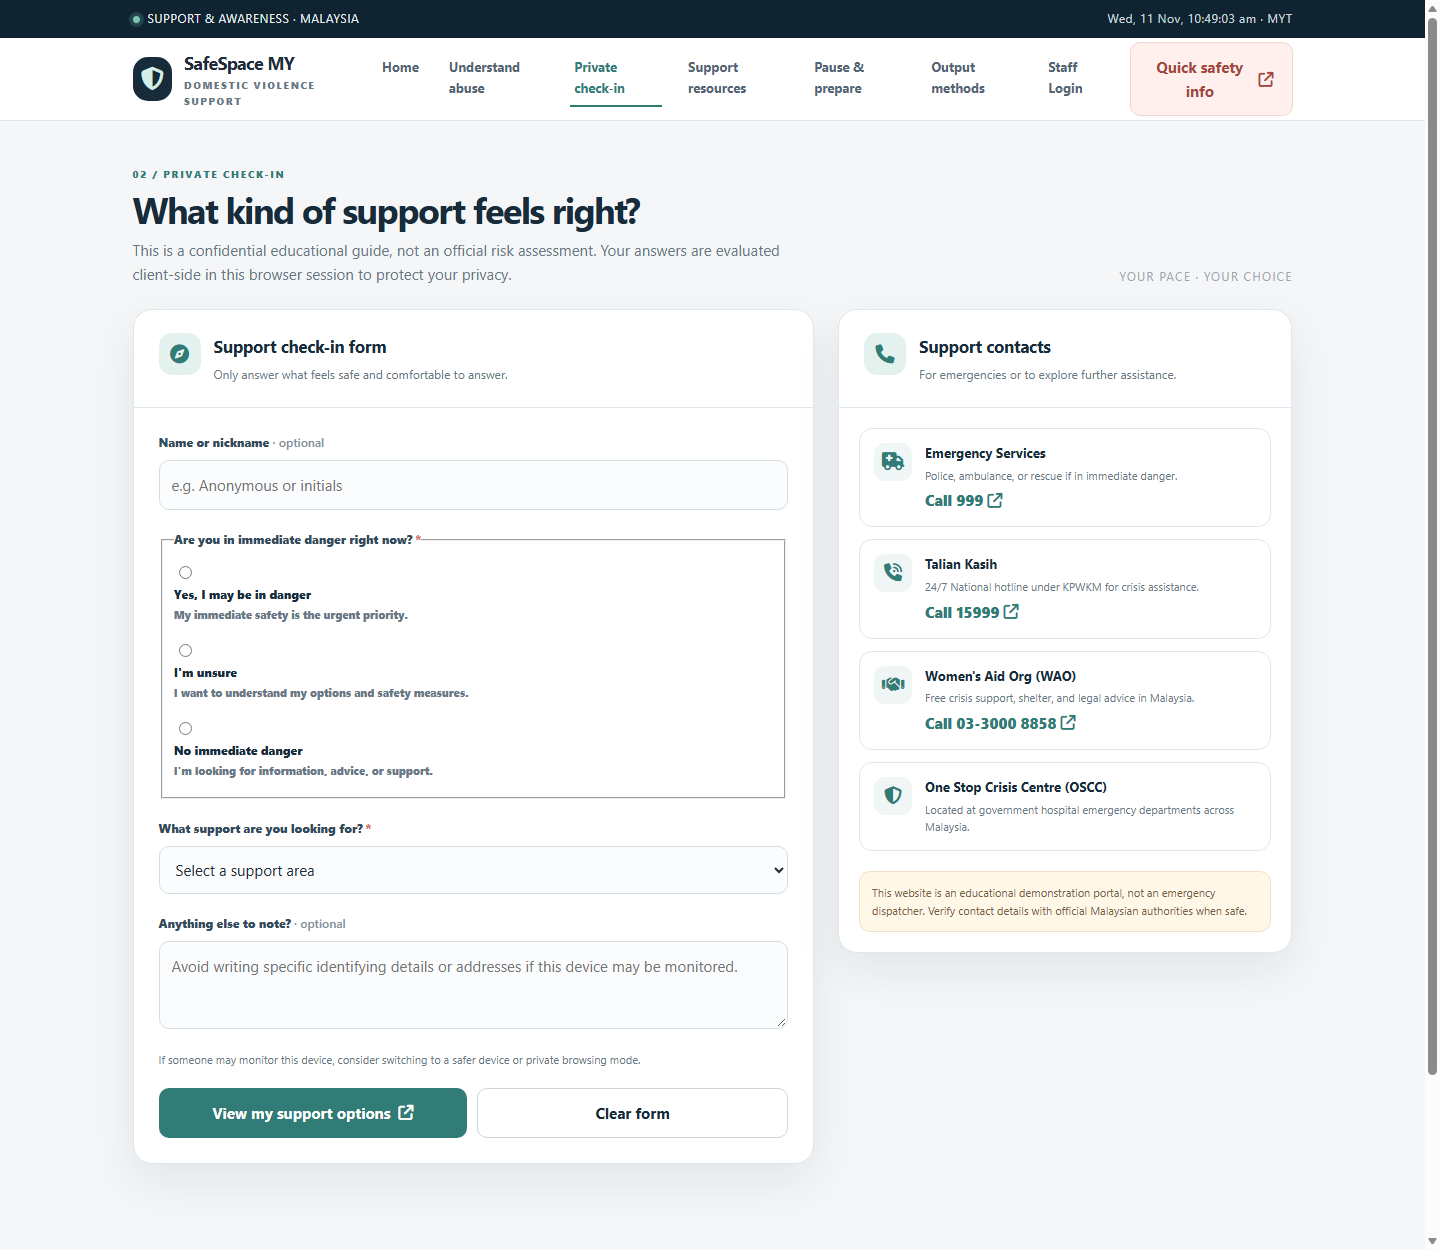
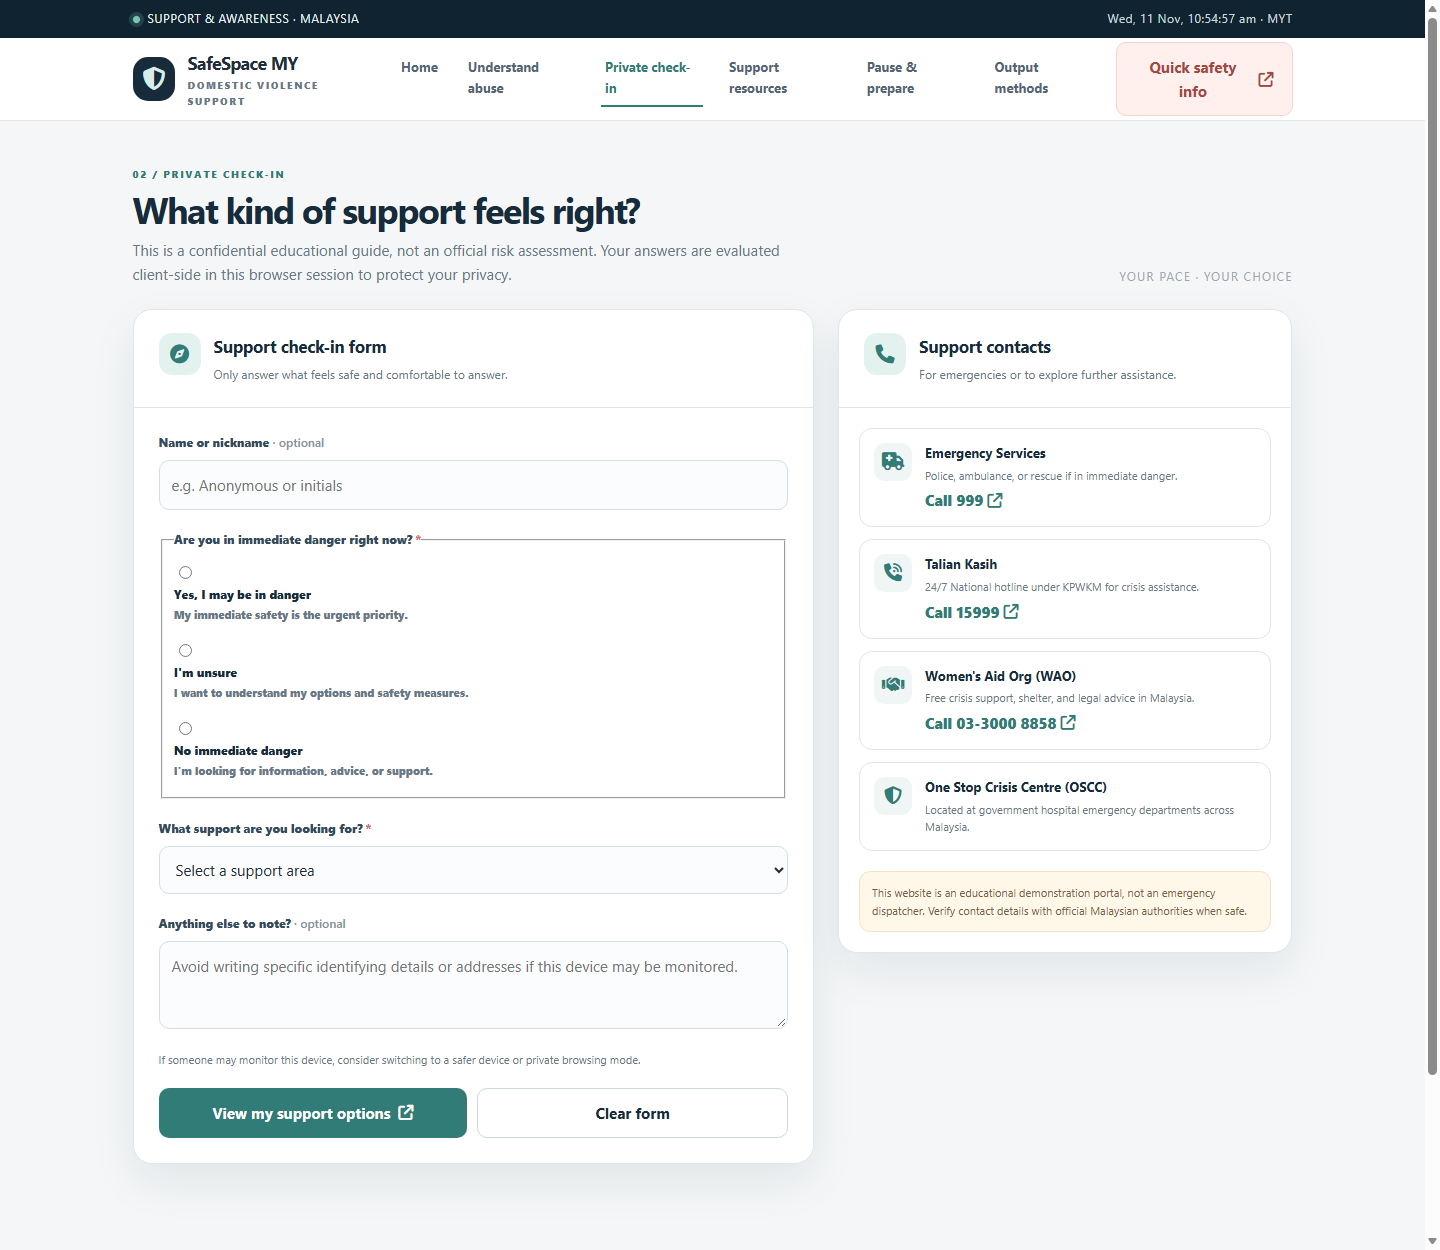
refactor: remove Staff Login page, authController, and Password.txt

diff --git a/index.html b/index.html
@@ -45,7 +45,6 @@
           <a href="#resources">Support resources</a>
           <a href="#calm">Pause &amp; prepare</a>
           <a href="#methods">Output methods</a>
-          <a href="#login">Staff Login</a>
         </nav>
 
         <div class="nav-actions">
@@ -467,45 +466,6 @@
             <strong>Developer console output terminal</strong>
             <pre id="consoleOutputText"></pre>
           </div>
-        </div>
-      </section>
-
-      <!-- ==========================================
-           PAGE VIEW 7: STAFF LOGIN (PASSWORD.TXT)
-           ========================================== -->
-      <section id="view-login" class="page-view" style="display:none;">
-        <div class="login-card">
-          <h2 style="margin-top:0;">Staff &amp; Advocate Login</h2>
-          <p>Authenticates against <code>Password.txt</code> as required by the lab rubric.</p>
-          <div class="auth-badge">
-            <i class="fa-solid fa-circle-info"></i>
-            <div>
-              <b>Test Accounts in Password.txt:</b><br />
-              • <code>sir</code> / <code>secret</code> (moderator)<br />
-              • <code>admin</code> / <code>admin123</code> (administrator)<br />
-              • <code>user1</code> / <code>user123</code> (user)
-            </div>
-          </div>
-          <div id="loginFeedback" style="display:none; margin-bottom:15px;" class="status"></div>
-          <div id="loggedInPanel" style="display:none; margin-bottom:15px;">
-            <div class="status safe" style="display:flex; justify-content:space-between; align-items:center;">
-              <div><b>Logged in:</b> <span id="currentUsername"></span> (<span id="currentUserRole"></span>)</div>
-              <button class="button dark" id="logoutBtn" style="padding:6px 12px; font-size:11px;" type="button">Logout</button>
-            </div>
-          </div>
-          <form id="authForm">
-            <div class="field">
-              <label for="loginUsername">Username <span style="color:#d86d66;">*</span></label>
-              <input id="loginUsername" type="text" placeholder="e.g. sir or admin" required />
-            </div>
-            <div class="field">
-              <label for="loginPassword">Password <span style="color:#d86d66;">*</span></label>
-              <input id="loginPassword" type="password" placeholder="e.g. secret or admin123" required />
-            </div>
-            <div class="form-actions" style="margin-top:20px;">
-              <button class="button primary" type="submit">Authenticate Login <i class="fa-solid fa-arrow-right"></i></button>
-            </div>
-          </form>
         </div>
       </section>
     </main>

diff --git a/src/worker.js b/src/worker.js
@@ -11,8 +11,6 @@ import checkinHtml from "../views/pages/checkin.html";
 import resourcesHtml from "../views/pages/resources.html";
 import calmHtml from "../views/pages/calm.html";
 import methodsHtml from "../views/pages/methods.html";
-import loginHtml from "../views/pages/login.html";
-import passwordTxt from "../Password.txt";
 
 const PAGE_ROUTES = {
   "/": {
@@ -50,11 +48,6 @@ const PAGE_ROUTES = {
     html: methodsHtml,
     title: "JavaScript Output Methods Demonstration | SafeSpace MY",
   },
-  "/login": {
-    viewName: "login",
-    html: loginHtml,
-    title: "Staff & Advocate Login | SafeSpace MY",
-  },
 };
 
 function renderPage(viewName, pageHtml, title) {
@@ -86,51 +79,6 @@ async function parseBody(request) {
   } catch {
     return {};
   }
-}
-
-function handleLogin(body) {
-  const { username, password } = body || {};
-  if (!username || !password) {
-    return Response.json(
-      {
-        success: false,
-        message: "Please enter both username and password.",
-      },
-      { status: 400 }
-    );
-  }
-
-  const lines = String(passwordTxt)
-    .split(/\r?\n/)
-    .filter((l) => l.trim().length > 0);
-
-  let authenticated = false;
-  let matchedRole = null;
-
-  for (const line of lines) {
-    const [u, p, r] = line.split(",").map((s) => s.trim());
-    if (u === username && p === password) {
-      authenticated = true;
-      matchedRole = r || "standard";
-      break;
-    }
-  }
-
-  if (authenticated) {
-    return Response.json({
-      success: true,
-      message: `Login successful! Welcome, ${username} (${matchedRole}).`,
-      user: { username, role: matchedRole },
-    });
-  }
-
-  return Response.json(
-    {
-      success: false,
-      message: "Invalid username or password. Check Password.txt credentials.",
-    },
-    { status: 401 }
-  );
 }
 
 function handleCheckin(body) {
@@ -213,15 +161,6 @@ export default {
     if (method === "GET" && PAGE_ROUTES[pathname]) {
       const page = PAGE_ROUTES[pathname];
       return renderPage(page.viewName, page.html, page.title);
-    }
-
-    if (method === "POST" && pathname === "/login") {
-      const body = await parseBody(request);
-      return handleLogin(body);
-    }
-
-    if ((method === "POST" || method === "GET") && pathname === "/logout") {
-      return Response.json({ success: true, message: "Logged out." });
     }
 
     if (method === "POST" && pathname === "/api/checkin") {

diff --git a/config/routes.js b/config/routes.js
@@ -10,7 +10,6 @@ const router = express.Router();
 
 const pageController = require("../controllers/pageController");
 const supportController = require("../controllers/supportController");
-const authController = require("../controllers/authController");
 
 // ==========================================
 // Page View Routes (Controller dispatch)
@@ -22,15 +21,10 @@ router.get("/checkin", pageController.getCheckin);
 router.get("/resources", pageController.getResources);
 router.get("/calm", pageController.getCalm);
 router.get("/methods", pageController.getMethods);
-router.get("/login", pageController.getLogin);
 
 // ==========================================
-// API & Authentication Action Routes
+// API Action Routes
 // ==========================================
-router.post("/login", authController.login);
-router.post("/logout", authController.logout);
-router.get("/logout", authController.logout);
-
 router.post("/api/checkin", supportController.processCheckin);
 
 module.exports = router;

diff --git a/public/js/router.js b/public/js/router.js
@@ -58,6 +58,5 @@ Router.register("checkin", "view-checkin", "Private Check-in | SafeSpace MY");
 Router.register("resources", "view-resources", "Support Resources | SafeSpace MY");
 Router.register("calm", "view-calm", "Pause & Prepare | SafeSpace MY");
 Router.register("methods", "view-methods", "Output Methods | SafeSpace MY");
-Router.register("login", "view-login", "Staff Login | SafeSpace MY");
 
 Router.init();

diff --git a/views/layouts/main.html b/views/layouts/main.html
@@ -45,7 +45,6 @@
           <a href="/resources" class="navlink-resources">Support resources</a>
           <a href="/calm" class="navlink-calm">Pause &amp; prepare</a>
           <a href="/methods" class="navlink-methods">Output methods</a>
-          <a href="/login" class="navlink-login">Staff Login</a>
         </nav>
 
         <div class="nav-actions">

diff --git a/controllers/pageController.js b/controllers/pageController.js
@@ -79,11 +79,4 @@ module.exports = {
       title: "JavaScript Output Methods Demonstration | SafeSpace MY",
     });
   },
-
-  // Page 7: Login Authentication Page (Password.txt)
-  getLogin: (req, res) => {
-    renderPage(res, "login", {
-      title: "Staff & Advocate Login | SafeSpace MY",
-    });
-  },
 };

diff --git a/README.md b/README.md
@@ -15,7 +15,7 @@ The main page (`/` or `/home`) combines the global master layout ([`views/layout
 1. **Top Announcement Bar & Live Mini Clock (`.topline`)**  
    Displays the `SUPPORT & AWARENESS · MALAYSIA` status indicator on the left and a live Malaysian Standard Time mini clock (`#clockMini`) on the right, synchronized every 1,000 ms using `Intl.DateTimeFormat` for the `Asia/Kuala_Lumpur` timezone in [`public/js/clock.js`](public/js/clock.js).
 2. **Primary Navigation Header (`<header>`)**  
-   Features the **SafeSpace MY** brand shield, seven route links (`Home`, `Understand abuse`, `Private check-in`, `Support resources`, `Pause & prepare`, `Output methods`, and `Staff Login`) with active-tab highlighting injected by the controller, and a **Quick safety info** (`#quickHelp`) button that immediately opens an urgent safety modal with emergency numbers (`999` and `Talian Kasih 15999`) via [`public/js/modal.js`](public/js/modal.js).
+   Features the **SafeSpace MY** brand shield, six route links (`Home`, `Understand abuse`, `Private check-in`, `Support resources`, `Pause & prepare`, and `Output methods`) with active-tab highlighting injected by the controller, and a **Quick safety info** (`#quickHelp`) button that immediately opens an urgent safety modal with emergency numbers (`999` and `Talian Kasih 15999`) via [`public/js/modal.js`](public/js/modal.js).
 3. **Hero Section (`#home`)**  
    Highlights the core message (*"Everyone deserves a life that feels safe."*) alongside three primary call-to-action buttons:
    - **Explore support options** (`/checkin`) — launches the private urgency check-in form.
@@ -53,10 +53,6 @@ Features a guided 60-second **3-breath grounding orb** powered by an `async/awai
 ![Output Methods Page](docs/methods-page.png)
 Interactive showcase demonstrating the four JavaScript output delivery mechanisms: `innerHTML` modal injection, `document.write()` printable emergency summary window, `window.alert()` safety dialog, and `console.log()` / `console.table()` developer diagnostics.
 
-### Staff Portal Login (`/login`)
-![Staff Portal Login Page](docs/login-page.png)
-Provides staff/advocate login authentication validated against `Password.txt` via the `/login` and `/logout` routes.
-
 ---
 
 ## 3. Project Architecture (Separation of Concerns)
@@ -69,8 +65,7 @@ safespace/
 │   └── routes.js             <-- ROUTER: Central Express HTTP routing table
 ├── controllers/
 │   ├── pageController.js     <-- CONTROLLER: View rendering & page data dispatcher
-│   ├── supportController.js  <-- CONTROLLER: Check-in processing & risk evaluation
-│   └── authController.js     <-- CONTROLLER: Reads Password.txt & authenticates sessions
+│   └── supportController.js  <-- CONTROLLER: Check-in processing & risk evaluation
 ├── views/
 │   ├── layouts/
 │   │   └── main.html         <-- VIEW LAYOUT: Global master template (Nav, Clock, Modal, Foot)
@@ -80,8 +75,7 @@ safespace/
 │       ├── checkin.html      <-- VIEW PAGE 3: Interactive support check-in HTML form
 │       ├── resources.html    <-- VIEW PAGE 4: Emergency hotlines & support contacts
 │       ├── calm.html         <-- VIEW PAGE 5: 60-second breathing orb & safety checklist
-│       ├── methods.html      <-- VIEW PAGE 6: 4 JavaScript output methods showcase
-│       └── login.html        <-- VIEW PAGE 7: Staff login form verifying Password.txt
+│       └── methods.html      <-- VIEW PAGE 6: 4 JavaScript output methods showcase
 ├── public/
 │   ├── css/
 │   │   └── style.css         <-- CSS: Dedicated responsive design system & print styles
@@ -100,9 +94,7 @@ safespace/
 │   ├── checkin-page.png      <-- SCREENSHOT: Private Check-in page
 │   ├── resources-page.png    <-- SCREENSHOT: Support Resources page
 │   ├── calm-page.png         <-- SCREENSHOT: Pause & Prepare page
-│   ├── methods-page.png      <-- SCREENSHOT: Output Methods page
-│   └── login-page.png        <-- SCREENSHOT: Staff Login page
-├── Password.txt              <-- FILE HANDLING: Credentials file for authentication
+│   └── methods-page.png      <-- SCREENSHOT: Output Methods page
 ├── server.js                 <-- SERVER ENTRY: Express full-stack web application
 ├── wrangler.jsonc            <-- CLOUDFLARE CONFIG: Workers & static assets deployment config
 ├── package.json              <-- NPM CONFIG: Dependencies & run scripts
@@ -116,9 +108,9 @@ safespace/
 
 | Feature | Implementation Location | Description |
 | :--- | :--- | :--- |
-| **Separate Pages** | `views/pages/*.html` | Individual templates for Home, Learn, Check-in, Resources, Calm, Methods, and Login. |
+| **Separate Pages** | `views/pages/*.html` | Individual templates for Home, Learn, Check-in, Resources, Calm, and Methods. |
 | **Router** | `config/routes.js` / `src/worker.js` | Express & Worker routing tables mapping HTTP paths to Controller actions (`GET`, `POST`). |
-| **Controllers** | `controllers/*.js` | Business logic separated into `pageController`, `supportController`, and `authController`. |
+| **Controllers** | `controllers/*.js` | Business logic separated into `pageController` and `supportController`. |
 | **Separated CSS** | `public/css/style.css` | Modular CSS design tokens, grid/flexbox layouts, responsive breakpoints, and print styles. |
 | **HTML Form** | `views/pages/checkin.html` | Input validation, text fields, radio urgency selectors, category dropdowns, and textarea notes. |
 | **PopUp Dialog** | `public/js/modal.js` | Custom accessible modal layer with backdrop blur, focus management, Escape key listener, and ARIA tags. |
@@ -128,7 +120,6 @@ safespace/
 | **Output Method 4:** `console` | `public/js/outputMethods.js` | Dispatches structured `console.table()` logs to browser DevTools and mirrors onto the on-page terminal. |
 | **Date & Time Handling** | `public/js/clock.js` | Synchronizes Malaysian Standard Time (`Asia/Kuala_Lumpur`) every 1,000 ms using `Intl.DateTimeFormat`. |
 | **Event Loop & Operators** | `public/js/breathing.js` | Utilizes `async/await`, Promises, `setTimeout`, switch/case control statements, and cancellation tokens. |
-| **File Auth Controller** | `controllers/authController.js` | Reads `Password.txt`, parses user records, and authenticates staff login requests. |
 
 ---
 
